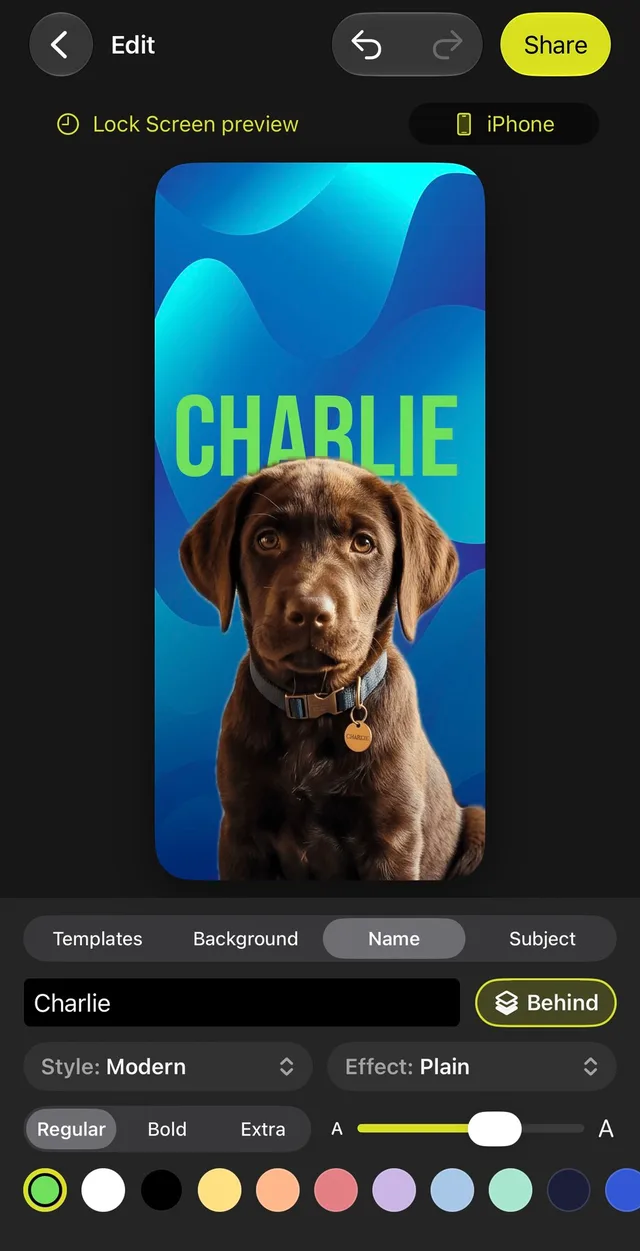
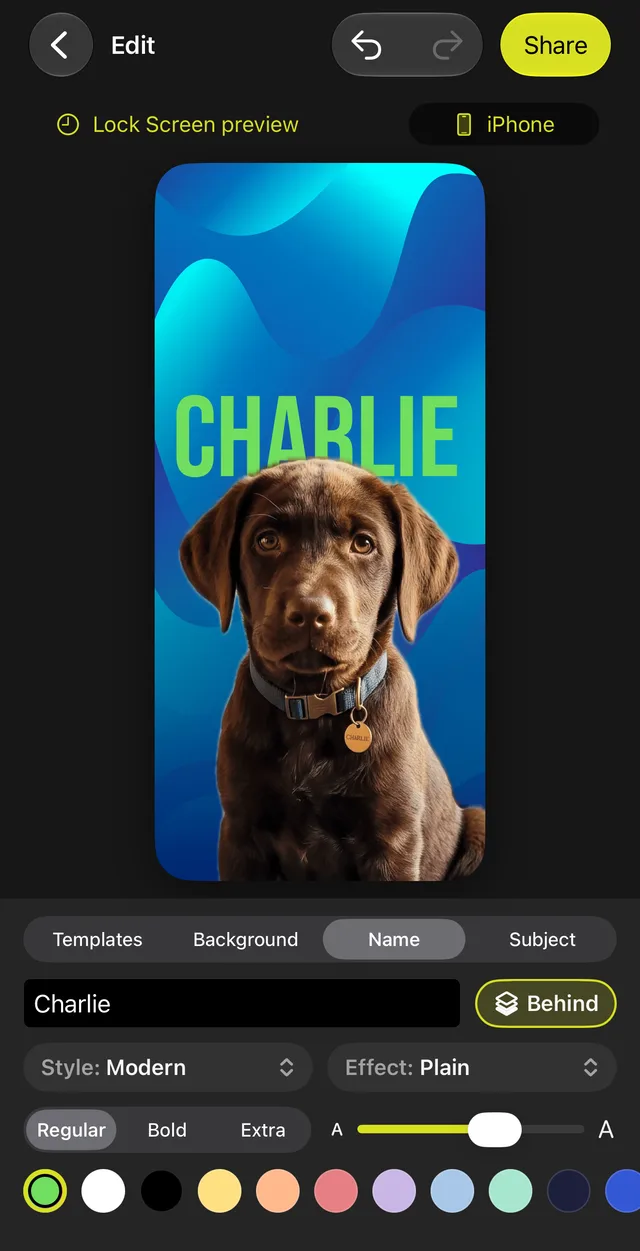
Charlie's walkthrough: edited photos, at full size
The new photos have the collar tag reading CHARLIE (it read CHAREIE).
They're the full 1320-wide screenshots, so the 921/923-wide copies are
replaced by 1320 ones, with the srcsets, JSON-LD, sitemap and the
640-wide heights updated to match. Same treatment as before: Display
P3 to sRGB, status bar cropped from the editor shots, carrier name
blurred on the Lock Screen.

Claude-Session: https://claude.ai/code/session_016buvGuCCdAGmowWamQ9GcH

diff --git a/how-to/dog-lock-screen-wallpaper.html b/how-to/dog-lock-screen-wallpaper.html
@@ -48,7 +48,7 @@
         "@type": "HowTo",
         "name": "How to turn a dog photo into an iPhone Lock Screen wallpaper",
         "description": "Turn a photo of your dog into an iPhone Lock Screen wallpaper with their name in big letters. WallyPaper lifts your dog out of the photo on your iPhone, then puts the name between your dog and the background. About a minute, no account, nothing uploaded.",
-        "image": "https://wallypaper.app/assets/img/how-to/dog/dog-lock-screen-wallpaper-charlie-921.webp",
+        "image": "https://wallypaper.app/assets/img/how-to/dog/dog-lock-screen-wallpaper-charlie-1320.webp",
         "totalTime": "PT2M",
         "estimatedCost": { "@type": "MonetaryAmount", "currency": "USD", "value": "0" },
         "tool": [ { "@type": "HowToTool", "name": "WallyPaper for iPhone (free on the App Store)" } ],
@@ -60,7 +60,7 @@
             "name": "Start with a photo of your dog",
             "text": "Open WallyPaper and choose a photo, take a new one, or share a photo to WallyPaper straight from the Photos app. A busy room behind your dog is fine; their whole head should be in the shot.",
             "url": "https://wallypaper.app/how-to/dog-lock-screen-wallpaper#step-1",
-            "image": "https://wallypaper.app/assets/img/how-to/dog/dog-photo-before-charlie-923.webp"
+            "image": "https://wallypaper.app/assets/img/how-to/dog/dog-photo-before-charlie-1320.webp"
           },
           {
             "@type": "HowToStep",
@@ -68,7 +68,7 @@
             "name": "WallyPaper lifts your dog out of the photo",
             "text": "WallyPaper finds your dog, lifts them off the background on your iPhone and places their head below the clock. Tap a template or pick a background.",
             "url": "https://wallypaper.app/how-to/dog-lock-screen-wallpaper#step-2",
-            "image": "https://wallypaper.app/assets/img/how-to/dog/wallypaper-lifts-dog-out-of-photo-921.webp"
+            "image": "https://wallypaper.app/assets/img/how-to/dog/wallypaper-lifts-dog-out-of-photo-1320.webp"
           },
           {
             "@type": "HowToStep",
@@ -76,7 +76,7 @@
             "name": "Type the name and tap Behind",
             "text": "On the Name tab, type your dog's name and tap Behind so the letters sit behind them. Push the size slider up, then drag the name down until the top of their head covers the bottom of the letters.",
             "url": "https://wallypaper.app/how-to/dog-lock-screen-wallpaper#step-3",
-            "image": "https://wallypaper.app/assets/img/how-to/dog/add-dog-name-to-lock-screen-wallpaper-921.webp"
+            "image": "https://wallypaper.app/assets/img/how-to/dog/add-dog-name-to-lock-screen-wallpaper-1320.webp"
           },
           {
             "@type": "HowToStep",
@@ -84,7 +84,7 @@
             "name": "Set it as your Lock Screen",
             "text": "Tap Share, then Set as Wallpaper. WallyPaper saves the wallpaper to Photos at your iPhone's exact screen size. In Photos, tap Share, then Use as Wallpaper, then Add.",
             "url": "https://wallypaper.app/how-to/dog-lock-screen-wallpaper#step-4",
-            "image": "https://wallypaper.app/assets/img/how-to/dog/dog-lock-screen-wallpaper-ta-da-charlie-921.webp"
+            "image": "https://wallypaper.app/assets/img/how-to/dog/dog-lock-screen-wallpaper-ta-da-charlie-1320.webp"
           }
         ]
       },
@@ -174,10 +174,10 @@
           </div>
           <figure class="howto-figure howto-figure--hero">
             <img src="/assets/img/how-to/dog/dog-lock-screen-wallpaper-charlie-640.webp"
-                 srcset="/assets/img/how-to/dog/dog-lock-screen-wallpaper-charlie-640.webp 640w, /assets/img/how-to/dog/dog-lock-screen-wallpaper-charlie-921.webp 921w"
+                 srcset="/assets/img/how-to/dog/dog-lock-screen-wallpaper-charlie-640.webp 640w, /assets/img/how-to/dog/dog-lock-screen-wallpaper-charlie-1320.webp 1320w"
                  sizes="(max-width: 900px) 92vw, 380px"
                  alt="Finished iPhone wallpaper of Charlie, a chocolate Lab puppy in a blue collar, with CHARLIE in big green capitals behind the puppy's head on a background of blue waves"
-                 width="640" height="1390" fetchpriority="high" decoding="async">
+                 width="640" height="1391" fetchpriority="high" decoding="async">
             <figcaption>The finished wallpaper: Charlie lifted off the couch, on the Ocean background, with the name behind.</figcaption>
           </figure>
         </header>
@@ -194,7 +194,7 @@
             </div>
             <figure class="howto-figure">
               <img src="/assets/img/how-to/dog/dog-photo-before-charlie-640.webp"
-                   srcset="/assets/img/how-to/dog/dog-photo-before-charlie-640.webp 640w, /assets/img/how-to/dog/dog-photo-before-charlie-923.webp 923w"
+                   srcset="/assets/img/how-to/dog/dog-photo-before-charlie-640.webp 640w, /assets/img/how-to/dog/dog-photo-before-charlie-1320.webp 1320w"
                    sizes="(max-width: 900px) 92vw, 340px"
                    alt="The original photo: Charlie, a chocolate Lab puppy, sitting on a gray couch in a sunny living room with plants, a bookshelf and a blue rope toy, before WallyPaper"
                    width="640" height="1387" loading="lazy" decoding="async">
@@ -212,7 +212,7 @@
             </div>
             <figure class="howto-figure">
               <img src="/assets/img/how-to/dog/wallypaper-lifts-dog-out-of-photo-640.webp"
-                   srcset="/assets/img/how-to/dog/wallypaper-lifts-dog-out-of-photo-640.webp 640w, /assets/img/how-to/dog/wallypaper-lifts-dog-out-of-photo-921.webp 921w"
+                   srcset="/assets/img/how-to/dog/wallypaper-lifts-dog-out-of-photo-640.webp 640w, /assets/img/how-to/dog/wallypaper-lifts-dog-out-of-photo-1320.webp 1320w"
                    sizes="(max-width: 900px) 92vw, 340px"
                    alt="The WallyPaper editor with Charlie lifted out of the couch photo onto the pink Sunset template, with the Templates row below"
                    width="640" height="1251" loading="lazy" decoding="async">
@@ -230,7 +230,7 @@
             </div>
             <figure class="howto-figure">
               <img src="/assets/img/how-to/dog/add-dog-name-to-lock-screen-wallpaper-640.webp"
-                   srcset="/assets/img/how-to/dog/add-dog-name-to-lock-screen-wallpaper-640.webp 640w, /assets/img/how-to/dog/add-dog-name-to-lock-screen-wallpaper-921.webp 921w"
+                   srcset="/assets/img/how-to/dog/add-dog-name-to-lock-screen-wallpaper-640.webp 640w, /assets/img/how-to/dog/add-dog-name-to-lock-screen-wallpaper-1320.webp 1320w"
                    sizes="(max-width: 900px) 92vw, 340px"
                    alt="The WallyPaper Name tab with Charlie typed in, Behind turned on, Style set to Modern in Regular and a bright green color, the name sitting behind the puppy's head on blue waves"
                    width="640" height="1251" loading="lazy" decoding="async">
@@ -248,10 +248,10 @@
             </div>
             <figure class="howto-figure">
               <img src="/assets/img/how-to/dog/dog-lock-screen-wallpaper-ta-da-charlie-640.webp"
-                   srcset="/assets/img/how-to/dog/dog-lock-screen-wallpaper-ta-da-charlie-640.webp 640w, /assets/img/how-to/dog/dog-lock-screen-wallpaper-ta-da-charlie-921.webp 921w"
+                   srcset="/assets/img/how-to/dog/dog-lock-screen-wallpaper-ta-da-charlie-640.webp 640w, /assets/img/how-to/dog/dog-lock-screen-wallpaper-ta-da-charlie-1320.webp 1320w"
                    sizes="(max-width: 900px) 92vw, 340px"
                    alt="Charlie's wallpaper on an iPhone Lock Screen: the clock at the top and CHARLIE in green behind the puppy's head"
-                   width="640" height="1390" loading="lazy" decoding="async">
+                   width="640" height="1391" loading="lazy" decoding="async">
               <figcaption>Charlie on the Lock Screen, with the name behind.</figcaption>
             </figure>
           </li>

diff --git a/how-to/index.html b/how-to/index.html
@@ -154,7 +154,7 @@
               <figure>
                 <img src="/assets/img/how-to/dog/dog-lock-screen-wallpaper-charlie-640.webp"
                      alt="Charlie the chocolate Lab puppy's finished Lock Screen wallpaper: the name in big green letters behind the puppy on blue waves"
-                     width="640" height="1390" loading="lazy" decoding="async">
+                     width="640" height="1391" loading="lazy" decoding="async">
               </figure>
               <div class="howto-card-body">
                 <span class="howto-card-tag">Pets</span>
